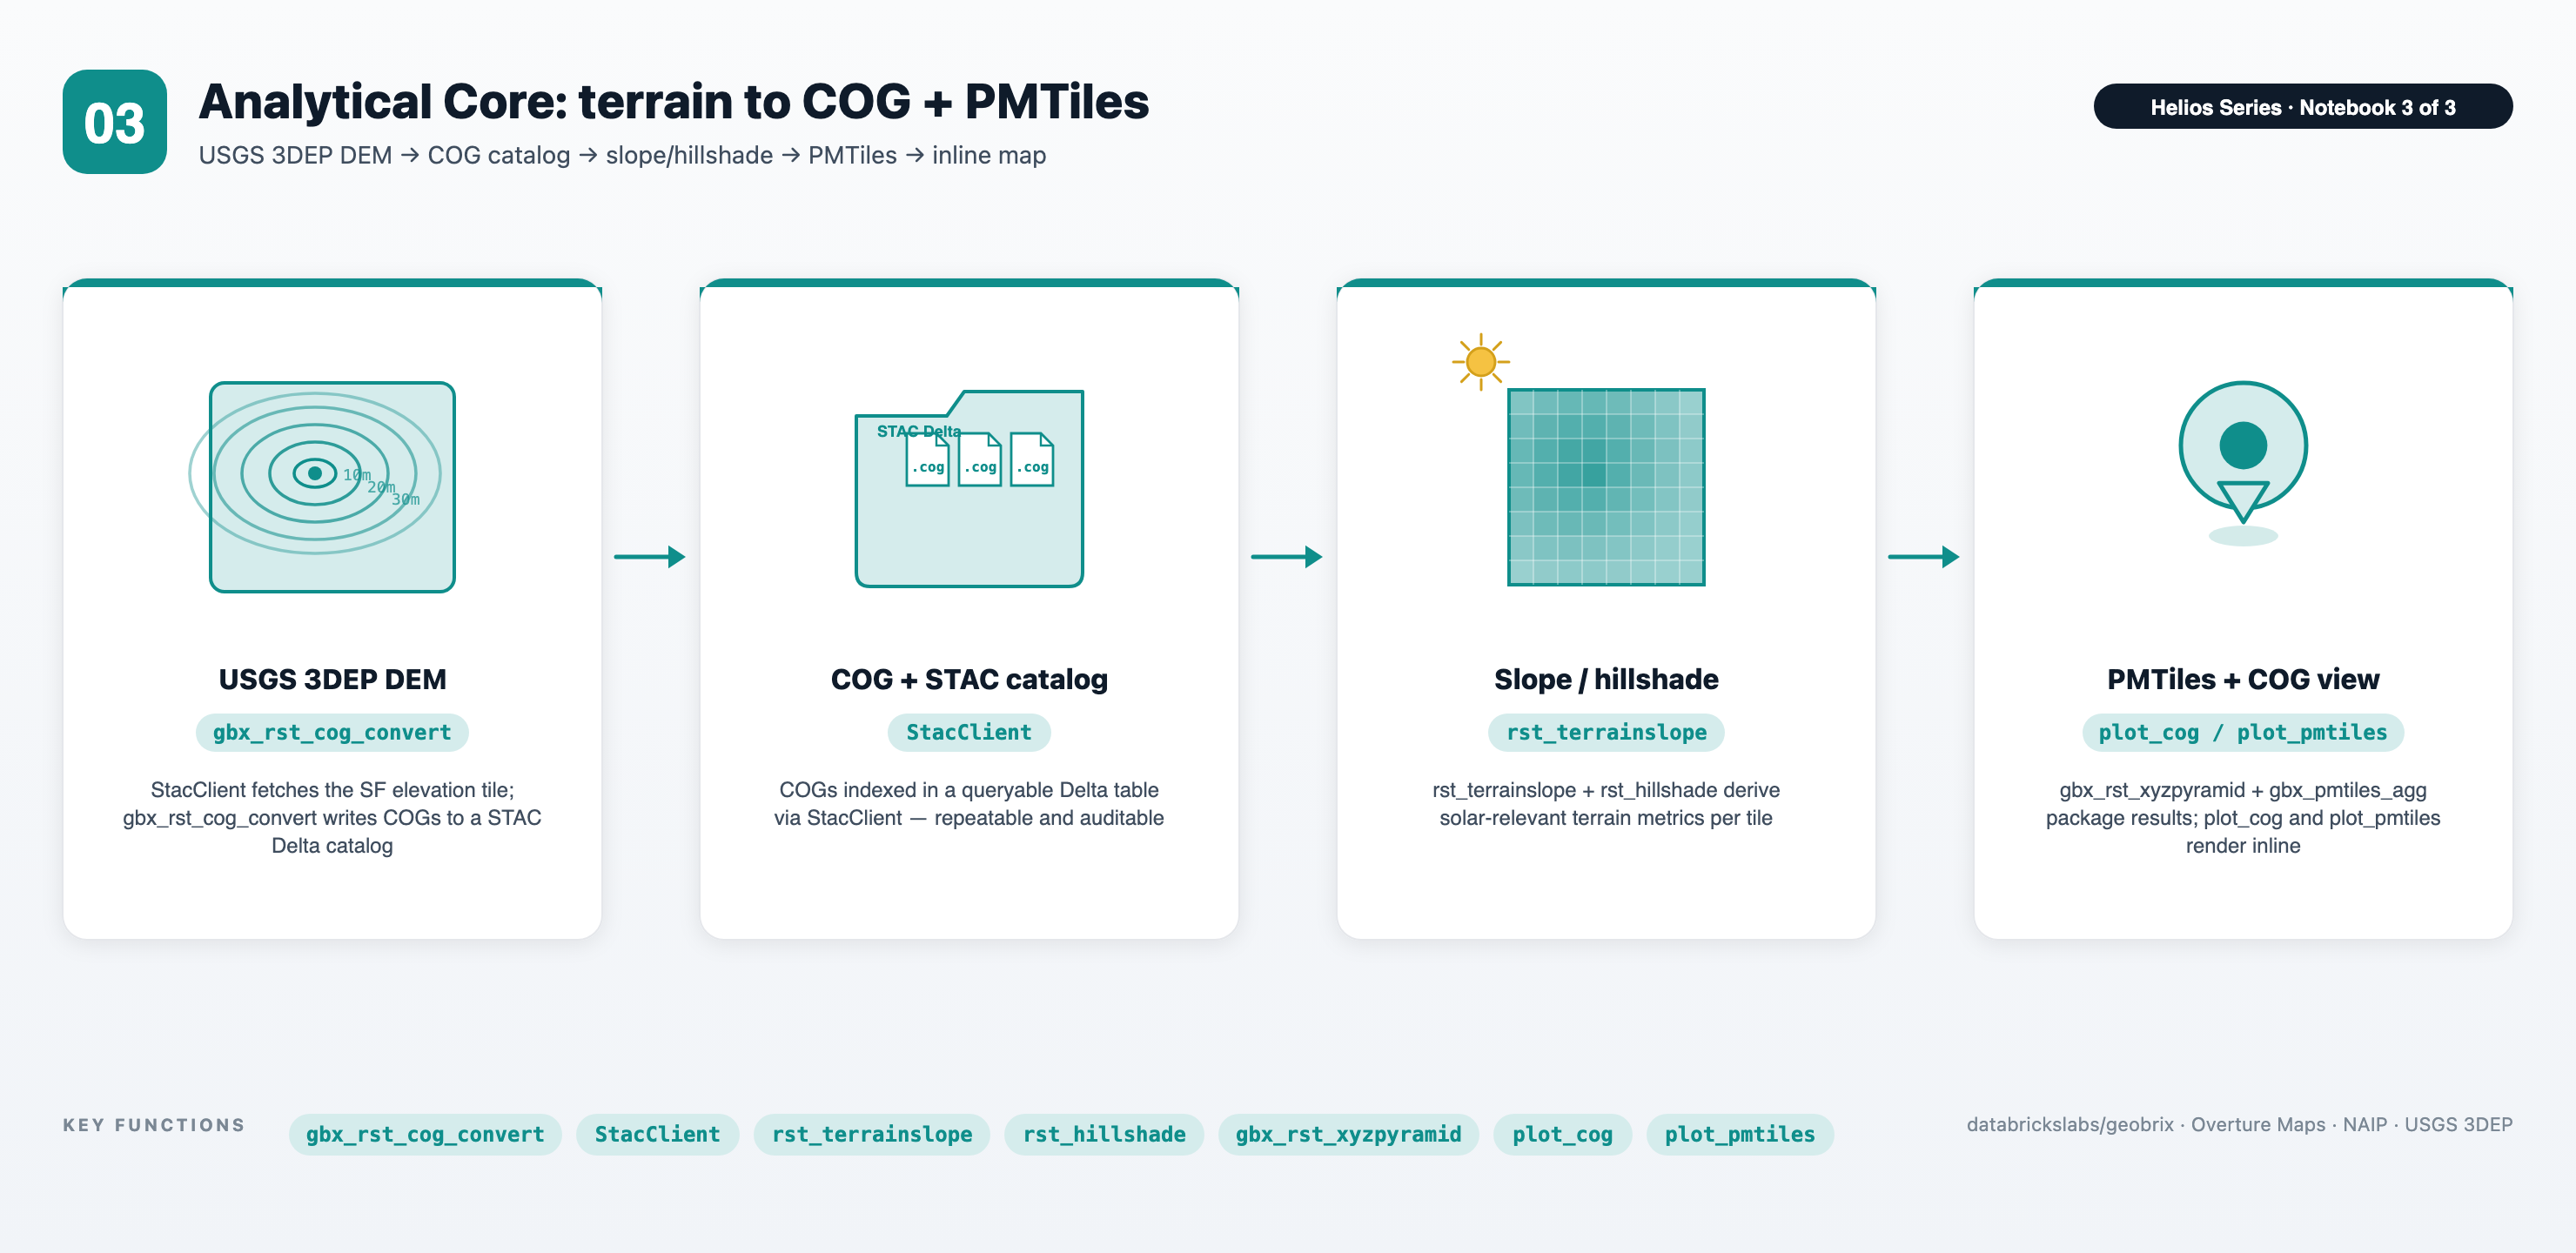
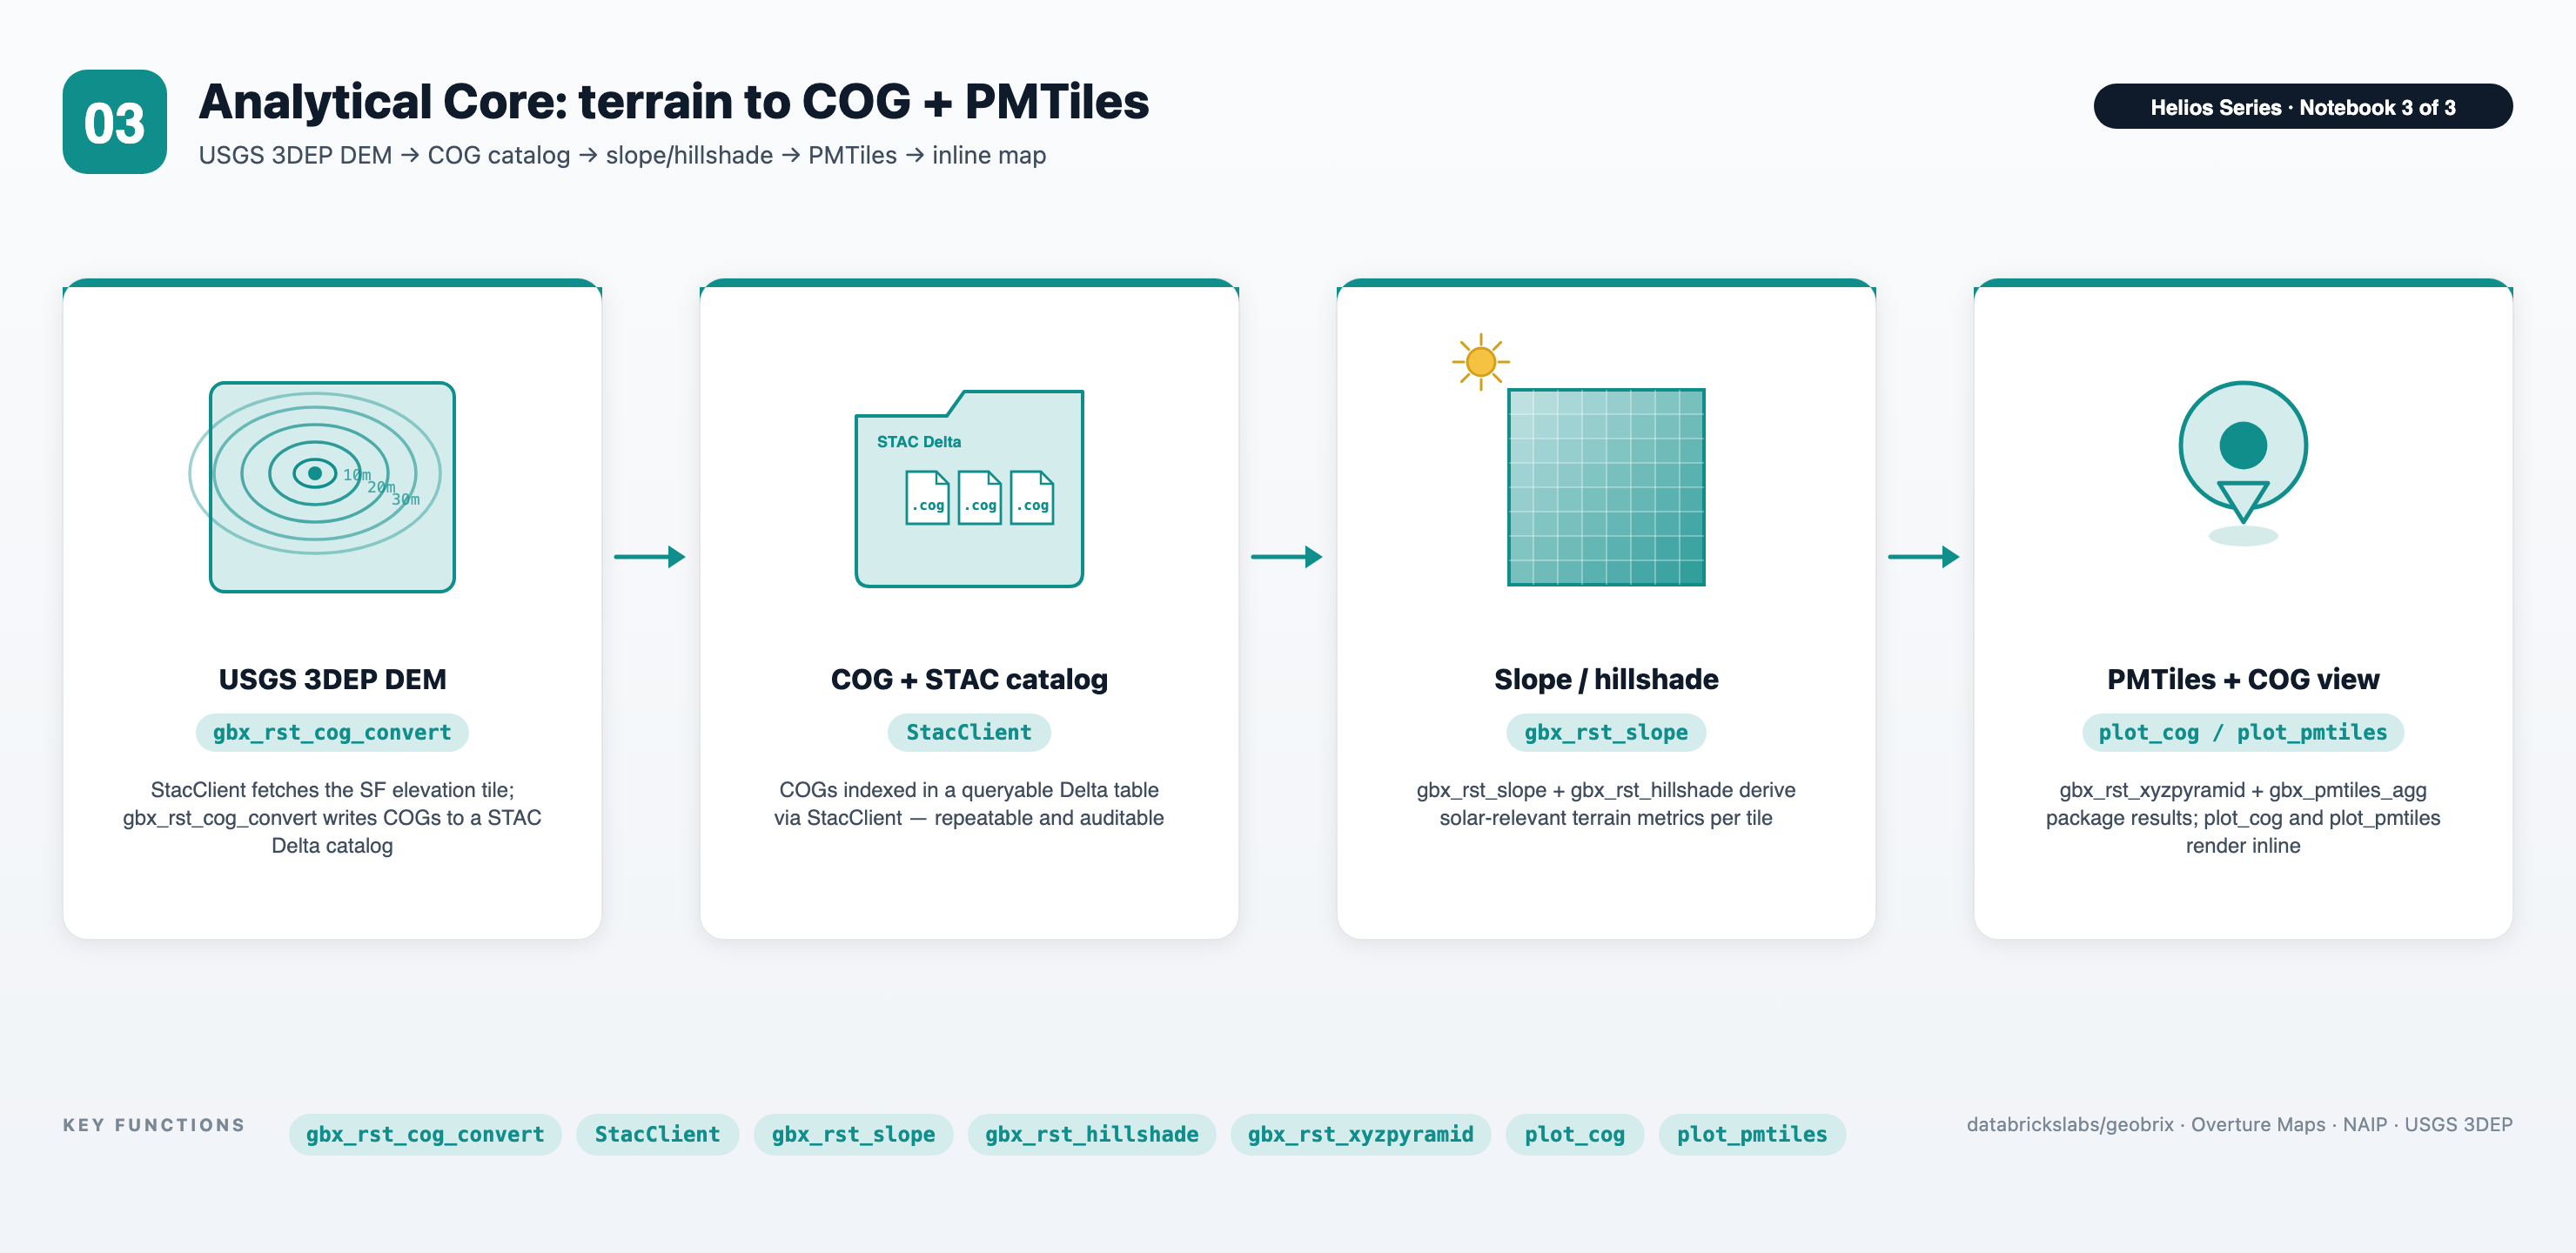
docs(helios): NB03 diagram — STAC Delta padding, hillshade gradient, names
Folder STAC Delta label gets headroom above and separation from the .cog
files (pushed down). Slope/hillshade grid now lights from the top-left
(sun) and darkens diagonally. Fix chip/footer names to the real registered
functions gbx_rst_slope / gbx_rst_hillshade (were rst_terrainslope/_hillshade).

diff --git a/resources/images/helios.py b/resources/images/helios.py
@@ -453,8 +453,9 @@ def g_cog_catalog(cx, cy, color, tint):
         f'H {fx + 8} Q {fx} {fy + fh + 8} {fx} {fy + fh} Z" '
         f'fill="{tint}" stroke="{color}" stroke-width="2" stroke-linejoin="round"/>'
     )
-    # COG file icons inside folder
-    file_defs = [(-36, 10), (-6, 10), (24, 10)]
+    # COG file icons inside folder — pushed down to clear the "STAC Delta"
+    # tab label above and leave breathing room below it
+    file_defs = [(-36, 32), (-6, 32), (24, 32)]
     for (fdx, fdy) in file_defs:
         fex = cx + fdx
         fey = fy + fdy
@@ -474,9 +475,9 @@ def g_cog_catalog(cx, cy, color, tint):
             f'font-family="ui-monospace, Menlo, monospace" font-size="8" '
             f'font-weight="700" fill="{color}">.cog</text>'
         )
-    # Delta label on folder tab
+    # Delta label on folder tab — sits below the folder top edge with headroom
     out.append(
-        f'<text x="{fx + 12}" y="{fy + 12}" '
+        f'<text x="{fx + 12}" y="{fy + 18}" '
         f'font-family="Inter, sans-serif" font-size="9" '
         f'font-weight="700" fill="{color}">STAC Delta</text>'
     )
@@ -494,18 +495,13 @@ def g_hillshade_relief(cx, cy, color, tint):
         f'<rect x="{x0:.1f}" y="{y0:.1f}" width="{span}" height="{span}" '
         f'fill="{tint}" stroke="{color}" stroke-width="2"/>'
     ]
-    # Hillshade pattern: light from upper-left
+    # Hillshade lit from the upper-left (where the sun glyph sits): cell
+    # opacity encodes darkness, so it is LOW (light) near the top-left corner
+    # and rises smoothly toward the bottom-right (in shadow) — a clean
+    # diagonal relief gradient.
     def hillshade_val(r, c):
-        # Simulate a hill: darker on lower-right, lighter on upper-left
-        # hill centered at (3,3) in grid coords
-        dr = r - 3
-        dc = c - 3
-        dist = math.sqrt(dr**2 + dc**2)
-        # Normal vector of hill face
-        norm_factor = max(0.0, 1.0 - dist / 5.0)
-        # Light direction: upper-left
-        light = 0.3 + 0.6 * norm_factor * (1.0 - (dr + dc + 2) / 12.0)
-        return max(0.05, min(0.85, light))
+        t = (r + c) / (2.0 * (cells - 1))  # 0 at top-left → 1 at bottom-right
+        return 0.12 + 0.70 * t
 
     for r in range(cells):
         for c in range(cells):
@@ -728,9 +724,9 @@ NOTEBOOKS = {
                   glyph=g_cog_catalog,
                   chip_text="StacClient"),
             Stage(title="Slope / hillshade",
-                  subtitle="rst_terrainslope + rst_hillshade derive solar-relevant terrain metrics per tile",
+                  subtitle="gbx_rst_slope + gbx_rst_hillshade derive solar-relevant terrain metrics per tile",
                   glyph=g_hillshade_relief,
-                  chip_text="rst_terrainslope"),
+                  chip_text="gbx_rst_slope"),
             Stage(title="PMTiles + COG view",
                   subtitle="gbx_rst_xyzpyramid + gbx_pmtiles_agg package results; plot_cog and plot_pmtiles render inline",
                   glyph=g_map_pin,
@@ -738,7 +734,7 @@ NOTEBOOKS = {
         ],
         "footer_chips": [
             "gbx_rst_cog_convert", "StacClient",
-            "rst_terrainslope", "rst_hillshade",
+            "gbx_rst_slope", "gbx_rst_hillshade",
             "gbx_rst_xyzpyramid", "plot_cog", "plot_pmtiles",
         ],
     },